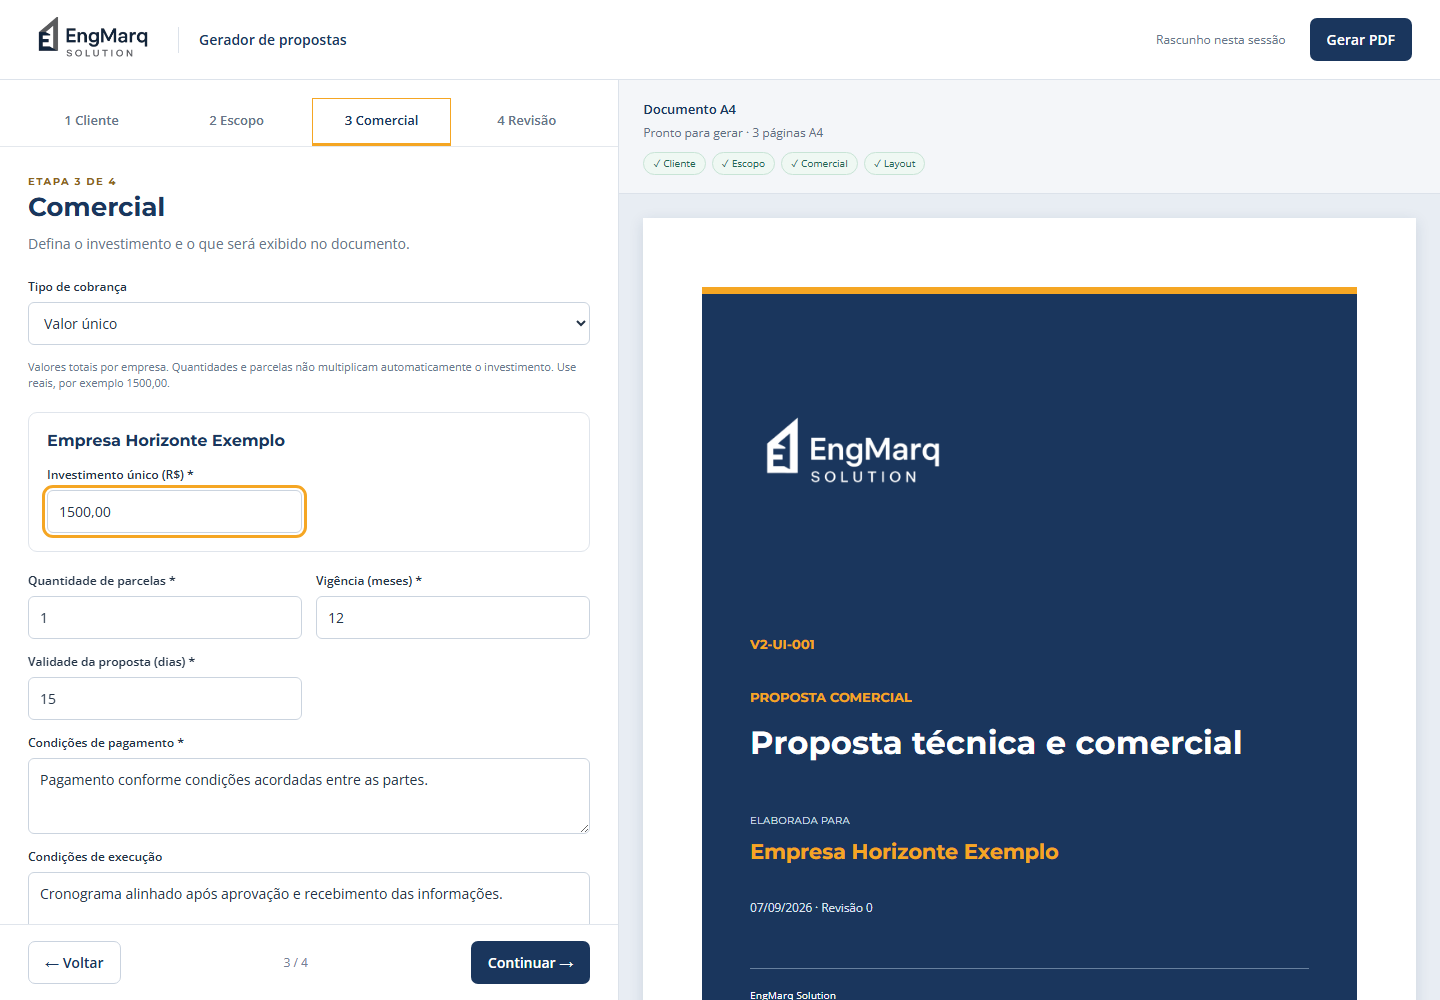
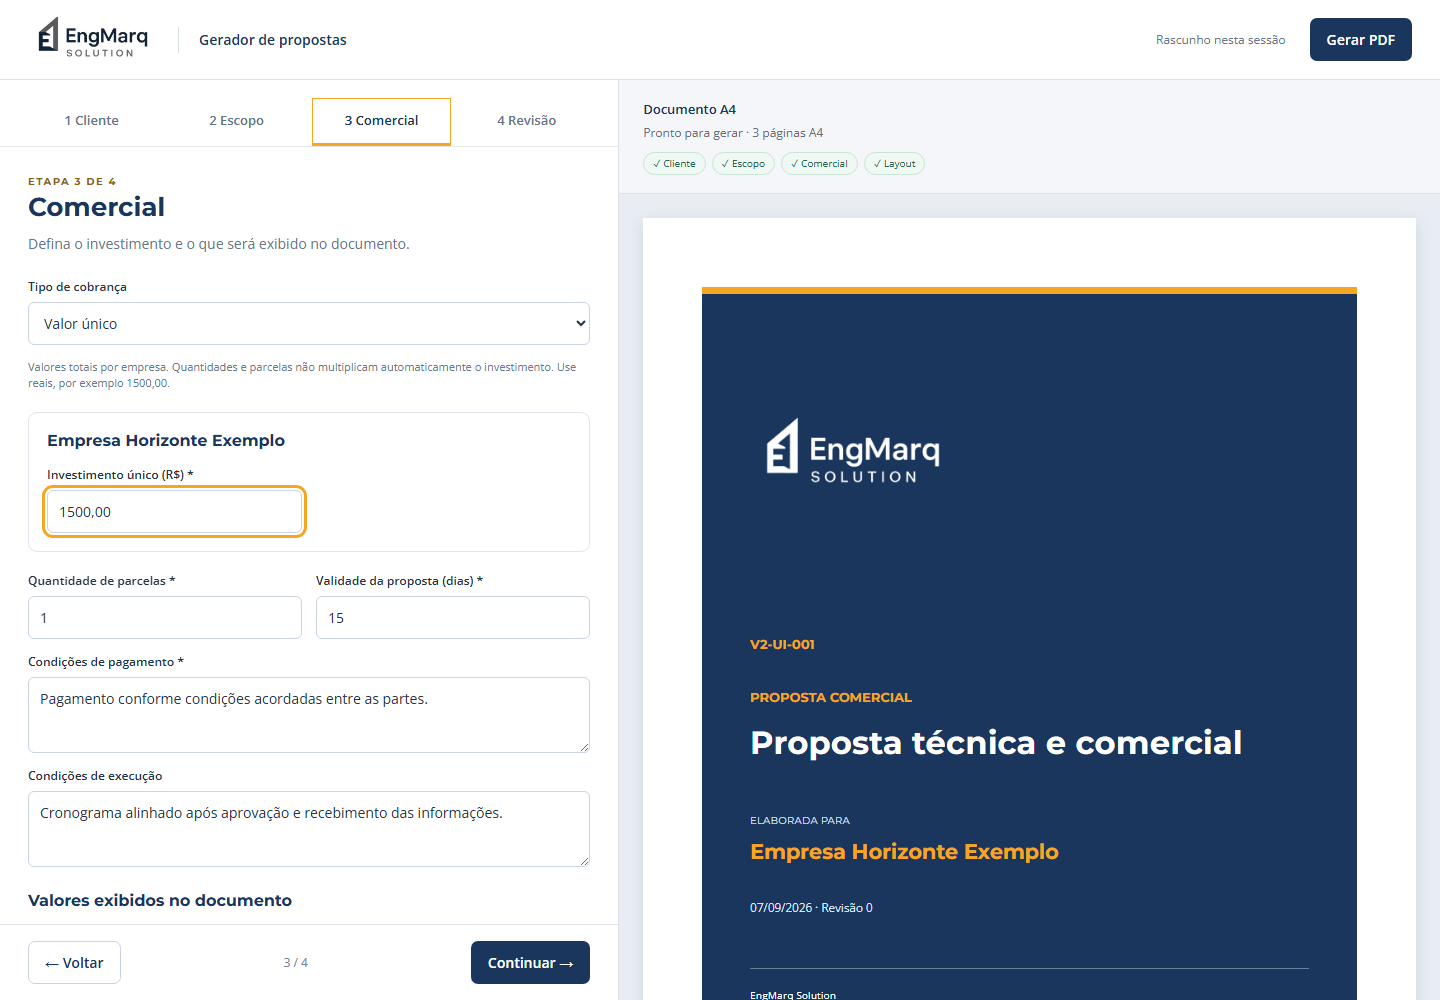
fix: remove unnecessary field from proposal form in editor

Changed region(s): [[0.0312, 0.651, 0.3438, 0.93], [0.2188, 0.558, 0.3438, 0.589]]

diff --git a/gerador/src/v2/ui/editor.ts b/gerador/src/v2/ui/editor.ts
@@ -184,7 +184,7 @@ function render(): void {
             if (draft.charge !== 'monthly') fields.append(field('Investimento único (R$) *', c.once, v => c.once = v));
             if (draft.charge !== 'once') fields.append(field('Mensalidade (R$) *', c.monthly, v => c.monthly = v)); card.append(fields); form.append(card);
         }
-        form.append(grid(field('Quantidade de parcelas *', draft.installments, v => draft.installments = v, 'number'), field('Vigência (meses) *', draft.term, v => draft.term = v, 'number'), field('Validade da proposta (dias) *', draft.validity, v => draft.validity = v, 'number'), field('Condições de pagamento *', draft.payment, v => draft.payment = v, 'textarea'), field('Condições de execução', draft.execution, v => draft.execution = v, 'textarea')));
+        form.append(grid(field('Quantidade de parcelas *', draft.installments, v => draft.installments = v, 'number'), field('Validade da proposta (dias) *', draft.validity, v => draft.validity = v, 'number'), field('Condições de pagamento *', draft.payment, v => draft.payment = v, 'textarea'), field('Condições de execução', draft.execution, v => draft.execution = v, 'textarea')));
         form.append(el('h2', '', 'Valores exibidos no documento'), toggle('Exibir mensalidade', draft.showMonthlyValue, v => draft.showMonthlyValue = v, false), toggle('Exibir valor total do contrato', draft.showContractTotal, v => draft.showContractTotal = v, false), toggle('Exibir total agregado', draft.showAggregateTotal, v => draft.showAggregateTotal = v, false), toggle('Exibir valores por empresa', draft.showPerCompanyPricing, v => draft.showPerCompanyPricing = v, false), el('p', 'hint', 'Você pode contratar 12 mensalidades sem exibir o valor total do contrato ou do grupo.'));
     }
     if (step === 3) {
